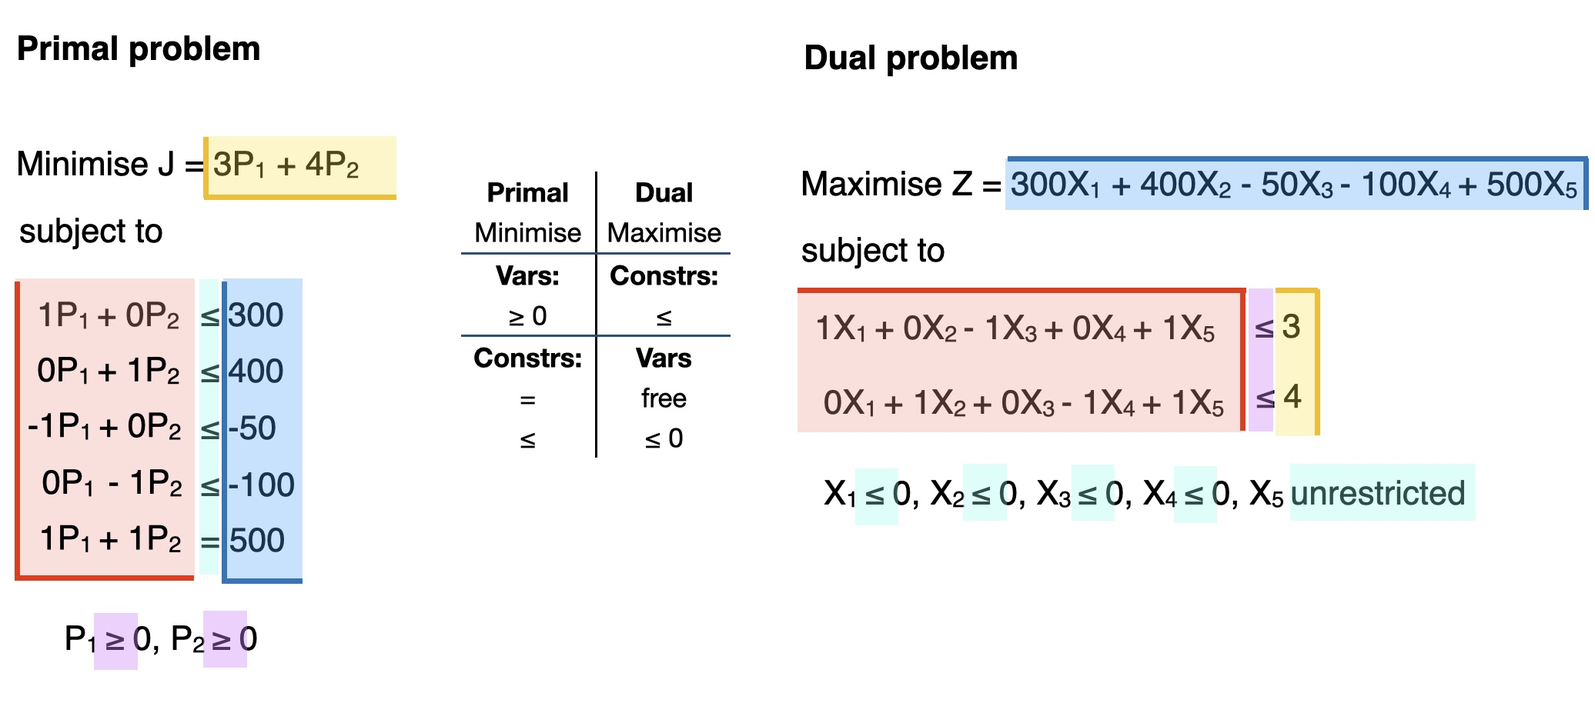
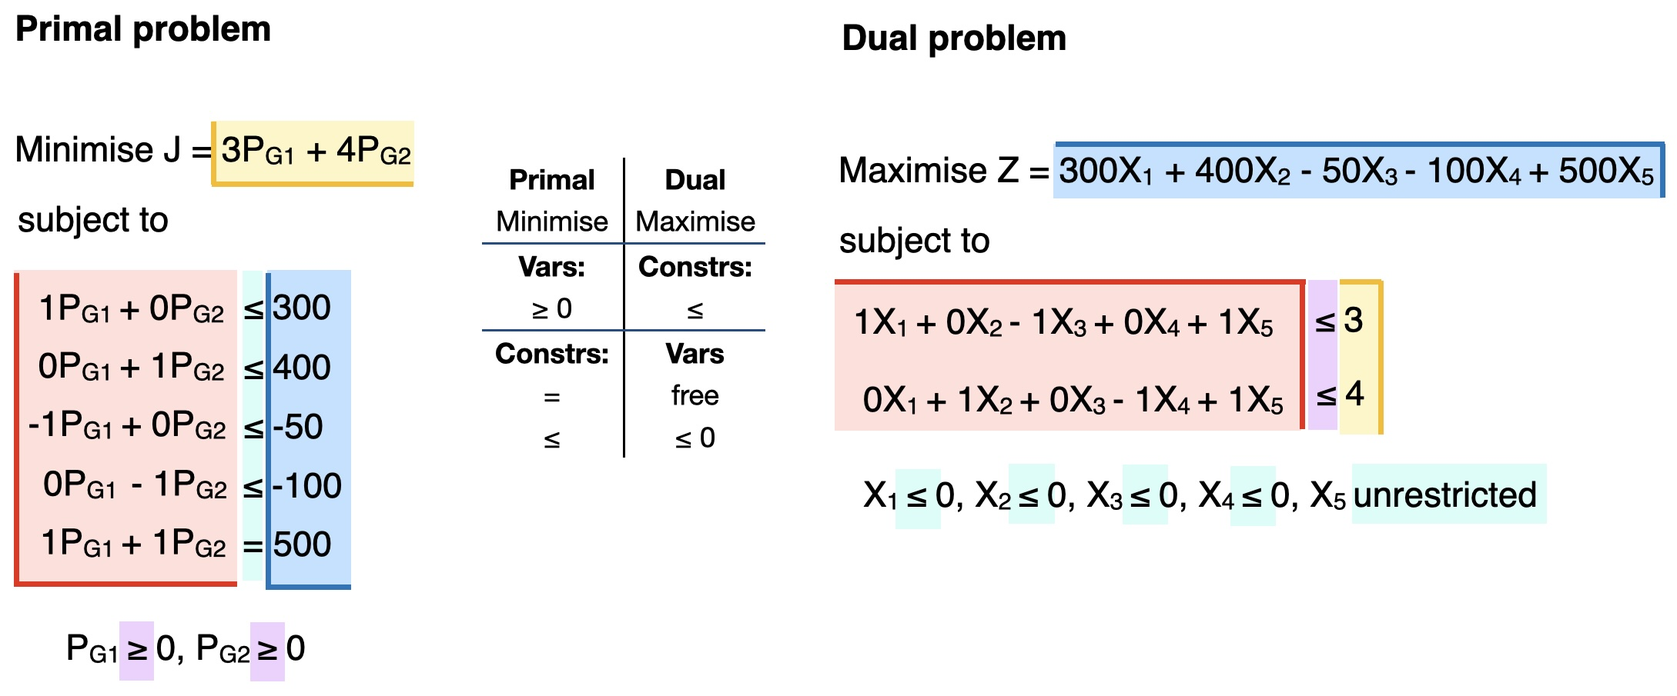
Change P_{G_i} to P_{Gi}; Minor fixes; Update figures

diff --git a/src/modelling_energy_systems/dispatch_lp.py b/src/modelling_energy_systems/dispatch_lp.py
@@ -38,8 +38,8 @@ def setup_fig_dispatchlp_decisionspace(min_coord, max_coord):
 
     ax.set_xlim(MIN_COORD, MAX_COORD)
     ax.set_ylim(MIN_COORD, MAX_COORD)
-    ax.set_xlabel("$\\mathbf{P_G_1}$: Power from coal power plant [MW]")
-    ax.set_ylabel("$\\mathbf{P_G_2}$: Power from gas power plant [MW]")
+    ax.set_xlabel("$\\mathbf{P_{G1}}$: Power from coal power plant [MW]")
+    ax.set_ylabel("$\\mathbf{P_{G2}}$: Power from gas power plant [MW]")
     ax.grid(True)
     return fig, ax
 

diff --git a/basics/duality-kkts.md b/basics/duality-kkts.md
@@ -62,13 +62,13 @@ Weak duality means that the solution to any primal minimisation problem is alway
 We will now revisit the economic dispatch problem from {numref}`content:lp:economic-dispatch` and formulate the corresponding dual problem. Recall our economic dispatch problem:
 
 \begin{align}
-    \text{Min.} \; & J = 3P_{G_1} + 4P_{G_2} \\
-    \text{s.t.} \; & 50 \leq P_{G_1} \leq 300 \\
-    & 100 \leq P_{G_2} \leq 400 \\
-    & P_{G_1} + P_{G_2} = 500 \\
+    \text{Min.} \; & J = 3P_{G1} + 4P_{G2} \\
+    \text{s.t.} \; & 50 \leq P_{G1} \leq 300 \\
+    & 100 \leq P_{G2} \leq 400 \\
+    & P_{G1} + P_{G2} = 500 \\
 \end{align}
 
-We also have the variable bounds: $P_{G_1} \geq 0$ and $P_{G_2} \geq 0$ (this comes from the physical nature of our system: power plants produce electricity; their power production has to be a positive value).
+We also have the variable bounds: $P_{G1} \geq 0$ and $P_{G2} \geq 0$ (this comes from the physical nature of our system: power plants produce electricity; their power production has to be a positive value).
 
 Now, to make our life easier, we will rewrite this problem into the standard form that we introduced in {numref}`content:lp:standard-form`. We separate out the upper and lower limits on generation which are technically separate constraints, and give all the constraints the same sign.
 
@@ -80,23 +80,23 @@ Modifying our economic dispatch example into a standard form.
 So our problem now looks like this:
 
 \begin{align}
-    \text{Min.} \; & J = 3P_{G_1} + 4P_{G_2} \\
-    \text{s.t.} \; & P_{G_1} \leq 300 \\
-    & P_{G_2} \leq 400 \\
-    & -P_{G_1} \leq -50 \\
-    & -P_{G_2} \leq -100 \\
-    & P_{G_1} + P_{G_2} = 500 \\
+    \text{Min.} \; & J = 3P_{G1} + 4P_{G2} \\
+    \text{s.t.} \; & P_{G1} \leq 300 \\
+    & P_{G2} \leq 400 \\
+    & -P_{G1} \leq -50 \\
+    & -P_{G2} \leq -100 \\
+    & P_{G1} + P_{G2} = 500 \\
 \end{align}
 
 It is up to us to pick the naming for the new variables in the dual problem. Often we write down the variable name we'll use in the dual problem next to the corresponding constraint in the primal problem, which in the above example would look like this:
 
 \begin{align}
-    \text{Min.} \; & J = 3P_{G_1} + 4P_{G_2} \\
-    \text{s.t.} \; & P_{G_1} \leq 300 \quad &(X_1) \\
-    & P_{G_2} \leq 400 \quad &(X_2) \\
-    & -P_{G_1} \leq -50 \quad &(X_3) \\
-    & -P_{G_2} \leq -100 \quad &(X_4) \\
-    & P_{G_1} + P_{G_2} = 500 \quad &(X_5) \\
+    \text{Min.} \; & J = 3P_{G1} + 4P_{G2} \\
+    \text{s.t.} \; & P_{G1} \leq 300 \quad &(X_1) \\
+    & P_{G2} \leq 400 \quad &(X_2) \\
+    & -P_{G1} \leq -50 \quad &(X_3) \\
+    & -P_{G2} \leq -100 \quad &(X_4) \\
+    & P_{G1} + P_{G2} = 500 \quad &(X_5) \\
 \end{align}
 
 Now, we can use the rules in {numref}`table:standard_duality_conversion`:
@@ -139,12 +139,12 @@ Our new variables are $X_1 \leq 0, X_2 \leq 0, X_3 \leq 0, X_4 \leq 0$, and $X_5
 :class: tip
 
 The left-hand side of the primal and dual constraints can be understood as a rotation of each other. In the context of the economic dispatch example:
-* $P_{G_1}$ in the first primal constraint leads to $X_1$ in the first dual constraint
-* $P_{G_2}$ in the second primal constraint leads to $X_2$ in the second dual constraint
-* $-P_{G_1}$ in the third primal constraint leads to $-X_3$ in the first dual constraint
-* $-P_{G_2}$ in the fourth primal constraint leads to $-X_4$ in the second dual constraint
-* $P_{G_1}$ in the fifth primal constraint leads to $X_5$ in the first dual constraint
-* $P_{G_2}$ in the fifth primal constraint leads to $X_5$ in the second dual constraint
+* $P_{G1}$ in the first primal constraint leads to $X_1$ in the first dual constraint
+* $P_{G2}$ in the second primal constraint leads to $X_2$ in the second dual constraint
+* $-P_{G1}$ in the third primal constraint leads to $-X_3$ in the first dual constraint
+* $-P_{G2}$ in the fourth primal constraint leads to $-X_4$ in the second dual constraint
+* $P_{G1}$ in the fifth primal constraint leads to $X_5$ in the first dual constraint
+* $P_{G2}$ in the fifth primal constraint leads to $X_5$ in the second dual constraint
 
 Notice that when there is a factor of $P_\mathbf{1}$ in a primal constraint, this leads to a term in the **first** dual constraint. When there is a factor of $P_\mathbf{2}$, it leads to a term in the **second** dual constraint. The **first** primal constraint leads to a factor of $X_\mathbf{1}$ in the dual constraint, the **second** primal constraint leads to a factor of $X_\mathbf{2}$ in the dual constraint, the **third** primal constraint leads to a factor of $X_\mathbf{3}$ in the dual constraint, and so on.
 :::
@@ -229,13 +229,13 @@ Let's go back to basic optimisation (high school mathematics). Whenever you had 
 
 A point that satisfies the necessary condition for optimality ($\frac{\partial f(x)}{\partial x} =  0$) is called a stationary point. For convex optimisation problems, we never use the sufficient condition because any stationary point will be a minimum.
 
-(content:duality-kkt:economic-dispatch)= 
+(content:duality-kkt:economic-dispatch)=
 
 ### Equality constrained optimisation
 
 In energy systems, a constrained optimisation is most common. Consider the example of economic dispatch from {numref}`content:lp:economic-dispatch`. We will again use an economic dispatch example, and build up the complexity of the problem throughout this chapter, to illustrate how we can use KKT conditions and duality to solve such problems and interpret their solutions.
 
-Consider two generators able to produce $P_{G_1}$ and $P_{G_2}$. Each generator has a quadratic cost function: $C_1 = a_1 + b_1 \cdot P_{G_1}^2$ and $C_2 = a_2 + b_2 \cdot P_{G_2}^2$. Note that the cost functions here are quadratic, _not_ linear. This is quite typical in power systems. $C_i$ denotes the total operating cost of powerplant $i$, while $a_i$ is a fixed cost and $b_i$ is the cost in €/MW.
+Consider two generators able to produce $P_{G1}$ and $P_{G2}$. Each generator has a quadratic cost function: $C_1 = a_1 + b_1 \cdot P_{G1}^2$ and $C_2 = a_2 + b_2 \cdot P_{G2}^2$. Note that the cost functions here are quadratic, _not_ linear. This is quite typical in power systems. $C_i$ denotes the total operating cost of powerplant $i$, while $a_i$ is a fixed cost and $b_i$ is the cost in €/MW.
 
 Unlike the linear dispatch problem in {numref}`content:lp:economic-dispatch`, we now have a **quadratic programming (QP)** problem. This is still a convex optimisation problem. Therefore, the techniques we use here also apply to linear programming problems.
 
@@ -247,29 +247,29 @@ Unlike the linear dispatch problem in {numref}`content:lp:economic-dispatch`, we
 We need to dispatch the generators to meet a demand $P_D$ at minimal cost. We will ignore the capacity constraints of the generators for now. Thus, we have the following optimisation problem:
 
 \begin{align}
-    & \text{min.} \quad a_1 + b_1 \cdot P_{G_1}^2+ a_2 + b_2 \cdot P_{G_2}^2 \\
-    & \text{s.t.} \quad P_{G_1} + P_{G_2} = P_D
+    & \text{min.} \quad a_1 + b_1 \cdot P_{G1}^2+ a_2 + b_2 \cdot P_{G2}^2 \\
+    & \text{s.t.} \quad P_{G1} + P_{G2} = P_D
 \end{align}
 
-If we do not consider the equality constraint $P_{G_1} + P_{G_2} = P_D$ then the optimal solution to this problem (what minimises operating cost of the system) is $P_{G_1}^* = 0$, $P_{G_2}^*=0$, i.e. not run the generators at all. You can easily confirm this with the necessary condition for optimality: take the derivative of the objective function w.r.t. $P_{G_1}$ and $P_{G_2}$, equate those expressions to zero, and solve for $P_{G_1}$ and $P_{G_2}$. This is the unconstrained optimisation previously discussed.
+If we do not consider the equality constraint $P_{G1} + P_{G2} = P_D$ then the optimal solution to this problem (what minimises operating cost of the system) is $P_{G1}^* = 0$, $P_{G2}^*=0$, i.e. not run the generators at all. You can easily confirm this with the necessary condition for optimality: take the derivative of the objective function w.r.t. $P_{G1}$ and $P_{G2}$, equate those expressions to zero, and solve for $P_{G1}$ and $P_{G2}$. This is the unconstrained optimisation previously discussed.
 
 To deal with the constraint in our optimisation problem, we introduce the Lagrangian. The Lagrangian integrates the constraint to the objective function.
 
 \begin{equation}
-    \mathcal{L} = (a_1 + b_1 \cdot P_{G_1}^2+ a_2 + b_2 \cdot P_{G_2}^2) + \lambda \cdot (P_D - P_{G_1} - P_{G_2})
+    \mathcal{L} = (a_1 + b_1 \cdot P_{G1}^2+ a_2 + b_2 \cdot P_{G2}^2) + \lambda \cdot (P_D - P_{G1} - P_{G2})
 \end{equation}
 
-The first part of the Lagrangian is the original objective function. Then we add the constraint multiplied by a Lagrange multiplier $\lambda$. We want to find an optimal value of $\lambda$ that coordinates the decision of $P_{G_1}$ and $P_{G_2}$ to ensure that the constraint $P_D = P_{G_1}^* + P_{G_2}^*$ is met at minimum cost.
+The first part of the Lagrangian is the original objective function. Then we add the constraint multiplied by a Lagrange multiplier $\lambda$. We want to find an optimal value of $\lambda$ that coordinates the decision of $P_{G1}$ and $P_{G2}$ to ensure that the constraint $P_D = P_{G1}^* + P_{G2}^*$ is met at minimum cost.
 
-To do this, we draw on our knowledge of unconstrained optimisation, since now we have a single function, the Lagrangian, to minimise. Thus, we take the first derivative of the Lagrangian w.r.t. $P_{G_1}$ and $P_{G_2}$ and $\lambda$:
+To do this, we draw on our knowledge of unconstrained optimisation, since now we have a single function, the Lagrangian, to minimise. Thus, we take the first derivative of the Lagrangian w.r.t. $P_{G1}$ and $P_{G2}$ and $\lambda$:
 
 \begin{align}
-    & \frac{\partial \mathcal{L}}{\partial P_{G_1}} = 2 \cdot b_1 \cdot P_{G_1} - \lambda = 0  \\
-    & \frac{\partial \mathcal{L}}{\partial P_{G_2}} = 2 \cdot b_2 \cdot P_{G_2} - \lambda = 0  \\
-    & \frac{\partial \mathcal{L}}{\partial \lambda} =P_D - P_{G_1} - P_{G_2} = 0
+    & \frac{\partial \mathcal{L}}{\partial P_{G1}} = 2 \cdot b_1 \cdot P_{G1} - \lambda = 0  \\
+    & \frac{\partial \mathcal{L}}{\partial P_{G2}} = 2 \cdot b_2 \cdot P_{G2} - \lambda = 0  \\
+    & \frac{\partial \mathcal{L}}{\partial \lambda} =P_D - P_{G1} - P_{G2} = 0
 \end{align}
 
-Notice that now we have three equations and three unknowns. So, we can solve for $P_{G_1}$, $P_{G_2}$, and $\lambda$, which gives the optimal solution to the original optimisation problem. Note that the last equation is identical to our original constraint. A solution to the system of equations above will hence be as such that $g_1$ and $g_2$ jointly meet the load $L$.
+Notice that now we have three equations and three unknowns. So, we can solve for $P_{G1}$, $P_{G2}$, and $\lambda$, which gives the optimal solution to the original optimisation problem. Note that the last equation is identical to our original constraint. A solution to the system of equations above will hence be as such that $g_1$ and $g_2$ jointly meet the load $L$.
 
 Now we will generalise the Lagrangian to any equality constrained optimisation problem. Consider the following minimisation problem with equality constraints $h_i(x)$:
 \begin{align}
@@ -306,23 +306,23 @@ The equality constrained optmisation problem also has a graphical interpretation
 Graphical representation of the equality constrained economic dispatch problem
 ```
 
-$P_{G_1}$ and $P_{G_2}$ are on the axes. The red contour lines are constant values of the objective function (total operating cost). The total operating cost increases as $P_{G_1}$ and $P_{G_2}$ increase. The blue line is the equality constraint. The green dot is the optimal solution. At this point, the gradient of the objective function $\nabla f(x)$ (red arrow) is (1) perpendicular to the constraint and (2) parallel to the gradient of the constraint $\nabla h(x)$ (blue arrow). This can be expressed as:
+$P_{G1}$ and $P_{G2}$ are on the axes. The red contour lines are constant values of the objective function (total operating cost). The total operating cost increases as $P_{G1}$ and $P_{G2}$ increase. The blue line is the equality constraint. The green dot is the optimal solution. At this point, the gradient of the objective function $\nabla f(x)$ (red arrow) is (1) perpendicular to the constraint and (2) parallel to the gradient of the constraint $\nabla h(x)$ (blue arrow). This can be expressed as:
 \begin{equation}
     \nabla f(x) + \lambda \cdot \nabla h(x) = 0
 \end{equation}
 
 ### General optimisation
 
-In energy systems, we have both equality and inequality constraints. For example, in the economic dispatch example of {numref}`content:lp:economic-dispatch`, the generators have maximum generation capacity constraints. These maximum constraints are notated as $P_{G_1}^{max}$ and $P_{G_2}^{max}$ and cannot run at negative output (lower bound of zero). The optimisation problem becomes:
+In energy systems, we have both equality and inequality constraints. For example, in the economic dispatch example of {numref}`content:lp:economic-dispatch`, the generators have maximum generation capacity constraints. These maximum constraints are notated as $P_{G1}^{max}$ and $P_{G2}^{max}$ and cannot run at negative output (lower bound of zero). The optimisation problem becomes:
 
 \begin{align}
-    \text{min.} \; & a_1 + b_1 \cdot P_{G_1}^2+ a_2 + b_2 \cdot P_{G_2}^2 \\
-    \text{s.t.} \; & P_{G_1} + P_{G_2} = P_D  \\
-    & 0 \leq P_{G_1} \leq P_{G_1}^{max}  \\
-    & 0 \leq P_{G_2} \leq P_{G_2}^{max}
+    \text{min.} \; & a_1 + b_1 \cdot P_{G1}^2+ a_2 + b_2 \cdot P_{G2}^2 \\
+    \text{s.t.} \; & P_{G1} + P_{G2} = P_D  \\
+    & 0 \leq P_{G1} \leq P_{G1}^{max}  \\
+    & 0 \leq P_{G2} \leq P_{G2}^{max}
 \end{align}
 
-To solve the problem with equality and inequality constraints, we extend our graphical interpretation. The grey area in {numref}`fig:KKT_eqconst_ineqconst_graphical` is the feasible region because it represents the feasible range of output of $P_{G_1}$ and $P_{G_2}$. The set of feasible solutions---the values of $P_{G_1}$ and $P_{G_2}$ that satisfy both the equality and inequality constraints---lie on the blue line within the grey area. This is exactly what we already did in {numref}`content:lp:economic-dispatch`, just with different notation for our generation and demand constraints - and as will become clear in {numref}`fig:KKT_eqconst_ineqconst_graphical`, a key difference in where the optimal solution lies, since we are dealing with a quadratic rather than a linear problem.
+To solve the problem with equality and inequality constraints, we extend our graphical interpretation. The grey area in {numref}`fig:KKT_eqconst_ineqconst_graphical` is the feasible region because it represents the feasible range of output of $P_{G1}$ and $P_{G2}$. The set of feasible solutions---the values of $P_{G1}$ and $P_{G2}$ that satisfy both the equality and inequality constraints---lie on the blue line within the grey area. This is exactly what we already did in {numref}`content:lp:economic-dispatch`, just with different notation for our generation and demand constraints - and as will become clear in {numref}`fig:KKT_eqconst_ineqconst_graphical`, a key difference in where the optimal solution lies, since we are dealing with a quadratic rather than a linear problem.
 
 ```{figure} ../images/KKT_eqconst_ineqconst_graphical.png
 :name: fig:KKT_eqconst_ineqconst_graphical
@@ -331,7 +331,7 @@ To solve the problem with equality and inequality constraints, we extend our gra
 Graphical representation of the equality and inequality constrained economic dispatch problem
 ```
 
-The optimal solution needs to be part of the feasible solution set. In this case, we see that the optimal solution (green dot) is indeed in the feasible area. Thus the inequality constraints $0 \leq P_{G_1} \leq P_{G_1}^{max}$ and $0 \leq P_{G_2} \leq P_{G_2}^{max}$ actually do not play a role in this particular example.
+The optimal solution needs to be part of the feasible solution set. In this case, we see that the optimal solution (green dot) is indeed in the feasible area. Thus the inequality constraints $0 \leq P_{G1} \leq P_{G1}^{max}$ and $0 \leq P_{G2} \leq P_{G2}^{max}$ actually do not play a role in this particular example.
 
 :::{admonition} From linear to quadratic problems
 :class: tip
@@ -340,7 +340,7 @@ Recall that in {numref}`content:lp:economic-dispatch`, we were able to say that 
 
 :::
 
-However, in the general case the inequality constraints can influence the optimisation problem. Such a case is when the generators produce at their capacity limits. Then we want to define which inequality constraints are active. If we can identify the active constraints, we can replace them with equality constraints (e.g., $P_{G_1} \leq P_{G_1}^{max}$ becomes $P_{G_1} = P_{G_1}^{max}$). Hence, we can ignore all inactive constraints, as they don't influence the solution. Then we are left with an equality constrained optimisation problem which we know how to solve.
+However, in the general case the inequality constraints can influence the optimisation problem. Such a case is when the generators produce at their capacity limits. Then we want to define which inequality constraints are active. If we can identify the active constraints, we can replace them with equality constraints (e.g., $P_{G1} \leq P_{G1}^{max}$ becomes $P_{G1} = P_{G1}^{max}$). Hence, we can ignore all inactive constraints, as they don't influence the solution. Then we are left with an equality constrained optimisation problem which we know how to solve.
 
 In a general optimisation problem with both equality and inequality constraints, we do not know in advance which constraints will be active. In that case, the Karush-Kuhn-Tucker (KKT) are useful in identifying the optimal solution. Consider the general optimisation problem written in standard form:
 
@@ -415,40 +415,40 @@ Note that sometimes KKT conditions are written in condensed form:
 
 Let's revisit the economic dispatch example with the quadratic cost functions, as defined in {numref}`content:duality-kkt:economic-dispatch` and apply KKT conditions. In the standard form we want to use here, the constraints are written separately with a zero on the right-hand sign and "=" or "$\leq$" signs:
 \begin{align}
-    \text{min.} \; & a_1 + b_1 \cdot P_{G_1}^2+ a_2 + b_2 \cdot P_{G_2}^2 &  \\
-    \text{s.t.} \; & P_{G_1} + P_{G_2} - P_D = 0 \quad &(\lambda) \\
-    &  - P_{G_1} \leq 0 \quad &(\mu_1) \\
-    &  P_{G_1} - P_{G_1}^{max} \leq 0 \quad &(\mu_2) \\
-    &  - P_{G_2} \leq 0 \quad &(\mu_3)  \\
-    &  P_{G_2} - P_{G_2}^{max} \leq 0 \quad &(\mu_4)
+    \text{min.} \; & a_1 + b_1 \cdot P_{G1}^2+ a_2 + b_2 \cdot P_{G2}^2 &  \\
+    \text{s.t.} \; & P_{G1} + P_{G2} - P_D = 0 \quad &(\lambda) \\
+    &  - P_{G1} \leq 0 \quad &(\mu_1) \\
+    &  P_{G1} - P_{G1}^{max} \leq 0 \quad &(\mu_2) \\
+    &  - P_{G2} \leq 0 \quad &(\mu_3)  \\
+    &  P_{G2} - P_{G2}^{max} \leq 0 \quad &(\mu_4)
 \end{align}
 
 This makes it easy to write the Lagrangian, following Equation {eq}`eqn:kkts-Lagrangian`:
 \begin{align}
-    \mathcal{L} = & a_1 + b_1 \cdot P_{G_1}^2+ a_2 + P_{G_2} \cdot P_{G_2}^2 + \lambda \cdot ( P_{G_1} + P_{G_2} - P_D ) \\
-    & + \mu_1 \cdot ( - P_{G_1}) + \mu_2 \cdot ( P_{G_1} - P_{G_1}^{max})  \\
-    & + \mu_3 \cdot ( - P_{G_2} ) + \mu_4 \cdot ( P_{G_2} - P_{G_2}^{max})
+    \mathcal{L} = & a_1 + b_1 \cdot P_{G1}^2+ a_2 + P_{G2} \cdot P_{G2}^2 + \lambda \cdot ( P_{G1} + P_{G2} - P_D ) \\
+    & + \mu_1 \cdot ( - P_{G1}) + \mu_2 \cdot ( P_{G1} - P_{G1}^{max})  \\
+    & + \mu_3 \cdot ( - P_{G2} ) + \mu_4 \cdot ( P_{G2} - P_{G2}^{max})
 \end{align}
 
 Then we derive the KKT conditions:
 \begin{align}
-    & \frac{\partial \mathcal{L}}{\partial P_{G_1}} = 2 \cdot b_1 \cdot P_{G_1} + \lambda - \mu_1 + \mu_2 = 0 \quad & (\text{Optimality conditions}) \\
-    & \frac{\partial \mathcal{L}}{\partial P_{G_2}} = 2 \cdot b_2 \cdot P_{G_2} + \lambda - \mu_3 + \mu_4 = 0 \quad & (\text{Optimality conditions}) \\
-    & \frac{\partial \mathcal{L}}{\partial \lambda} = P_{G_1} + P_{G_2} - P_D = 0 \quad &  (\text{Primal feasibility (equality constraint)}) \\
-    &  - P_{G_1} \leq 0 \quad & (\text{Primal feasibility (inequality constraint}) \\
-    &  P_{G_1} - P_{G_1}^{max} \leq 0  \quad & (\text{Primal feasibility (inequality constraint}) \\
-    &  - P_{G_2} \leq 0  \quad & (\text{Primal feasibility (inequality constraint}) \\
-    &  P_{G_2} - P_{G_2}^{max} \quad & (\text{Primal feasibility (inequality constraint}) \\
-    & \mu_1 \cdot ( - P_{G_1}) = 0  \quad & (\text{Complementary slackness conditions}) \\
-    & \mu_2 \cdot ( P_{G_1} - P_{G_1}^{max}) = 0 \quad & (\text{Complementary slackness conditions}) \\
-    & \mu_3 \cdot ( - P_{G_2} )  = 0 \quad & (\text{Complementary slackness conditions}) \\
-    & \mu_4 \cdot ( P_{G_2} - P_{G_2}^{max}) = 0 \quad & (\text{Complementary slackness conditions}) \\
+    & \frac{\partial \mathcal{L}}{\partial P_{G1}} = 2 \cdot b_1 \cdot P_{G1} + \lambda - \mu_1 + \mu_2 = 0 \quad & (\text{Optimality conditions}) \\
+    & \frac{\partial \mathcal{L}}{\partial P_{G2}} = 2 \cdot b_2 \cdot P_{G2} + \lambda - \mu_3 + \mu_4 = 0 \quad & (\text{Optimality conditions}) \\
+    & \frac{\partial \mathcal{L}}{\partial \lambda} = P_{G1} + P_{G2} - P_D = 0 \quad &  (\text{Primal feasibility (equality constraint)}) \\
+    &  - P_{G1} \leq 0 \quad & (\text{Primal feasibility (inequality constraint}) \\
+    &  P_{G1} - P_{G1}^{max} \leq 0  \quad & (\text{Primal feasibility (inequality constraint}) \\
+    &  - P_{G2} \leq 0  \quad & (\text{Primal feasibility (inequality constraint}) \\
+    &  P_{G2} - P_{G2}^{max} \quad & (\text{Primal feasibility (inequality constraint}) \\
+    & \mu_1 \cdot ( - P_{G1}) = 0  \quad & (\text{Complementary slackness conditions}) \\
+    & \mu_2 \cdot ( P_{G1} - P_{G1}^{max}) = 0 \quad & (\text{Complementary slackness conditions}) \\
+    & \mu_3 \cdot ( - P_{G2} )  = 0 \quad & (\text{Complementary slackness conditions}) \\
+    & \mu_4 \cdot ( P_{G2} - P_{G2}^{max}) = 0 \quad & (\text{Complementary slackness conditions}) \\
     & \mu_1, \mu_2, \mu_3, \mu_4 \geq 0 \quad & (\text{Dual feasibility})
 \end{align}
 
-Clearly, this is a large set of equations. This problem is not trivial to solve because the complementary slackness constraints are non-linear. For simple cases addressed in this course, we can solve the problem by using trial-and-error: "What if a certain constraint $g_j(x)$ is binding? Does that lead to a feasible solution? Is the solution optimal?" In this example, there are four inequality constraints so in theory there are 16 ($=2^4$) possible combinations. However, some combinations are not possible, for example if $P_{G_1} = 0$, then $P_{G_1} \neq P_{G_1}^{max}$. By trying different combinations of constraints, we come up with candidate solutions, then assess whether they are optimal or not.
+Clearly, this is a large set of equations. This problem is not trivial to solve because the complementary slackness constraints are non-linear. For simple cases addressed in this course, we can solve the problem by using trial-and-error: "What if a certain constraint $g_j(x)$ is binding? Does that lead to a feasible solution? Is the solution optimal?" In this example, there are four inequality constraints so in theory there are 16 ($=2^4$) possible combinations. However, some combinations are not possible, for example if $P_{G1} = 0$, then $P_{G1} \neq P_{G1}^{max}$. By trying different combinations of constraints, we come up with candidate solutions, then assess whether they are optimal or not.
 
-Let's look at the problem graphically (see {numref}`fig:KKT_G2const_graphical`). We assume that the feasible range of values for $P_{G_2}$ is reduced to the capacity constraints. Therefore, the original optimal solution (green dot) is no longer in the feasible region. By looking at the graph and reasoning, we can suppose that the upper capacity limit of $P_{G_2}$ will be binding. So, we will test the solution in which $P_{G_1}$ is producing within its operating range $0 \leq P_{G_1} \leq P_{G_1}^{max}$ (the inequality constraints are non-binding) and $P_{G_2}$ is operating at maximum capacity $P_{G_2} = P_{G_2}^{max}$. The solution still needs to lie on the blue line to satisfy the equality constraint.
+Let's look at the problem graphically (see {numref}`fig:KKT_G2const_graphical`). We assume that the feasible range of values for $P_{G2}$ is reduced to the capacity constraints. Therefore, the original optimal solution (green dot) is no longer in the feasible region. By looking at the graph and reasoning, we can suppose that the upper capacity limit of $P_{G2}$ will be binding. So, we will test the solution in which $P_{G1}$ is producing within its operating range $0 \leq P_{G1} \leq P_{G1}^{max}$ (the inequality constraints are non-binding) and $P_{G2}$ is operating at maximum capacity $P_{G2} = P_{G2}^{max}$. The solution still needs to lie on the blue line to satisfy the equality constraint.
 
 ```{figure} ../images/KKT_g2const_graphical.png
 :name: fig:KKT_g2const_graphical
@@ -459,17 +459,17 @@ Graphical representation of the economic dispatch problem with reduced feasible 
 
 Given this test solution, we know that $\mu_1$, $\mu_2$, $\mu_3$ $= 0$ and $\mu_4 \neq 0$. This simplifies the set of KKT conditions to:
 \begin{align}
-    & \frac{\partial \mathcal{L}}{\partial P1} = 2 \cdot b_1 \cdot P_{G_1} + \lambda  = 0  \\
-    & \frac{\partial \mathcal{L}}{\partial P_{G_2}} = 2 \cdot b_2 \cdot P_{G_2} + \lambda + \mu_4 = 0  \\
-    & \frac{\partial \mathcal{L}}{\partial \lambda} = P_{G_1} + P_{G_2} - P_D = 0  \\
-    &  - P_{G_1} < 0  \\
-    &  P_{G_1} - P_{G_1}^{max} < 0   \\
-    & P_{G_2} = P_{G_2}^{max} \\
+    & \frac{\partial \mathcal{L}}{\partial P1} = 2 \cdot b_1 \cdot P_{G1} + \lambda  = 0  \\
+    & \frac{\partial \mathcal{L}}{\partial P_{G2}} = 2 \cdot b_2 \cdot P_{G2} + \lambda + \mu_4 = 0  \\
+    & \frac{\partial \mathcal{L}}{\partial \lambda} = P_{G1} + P_{G2} - P_D = 0  \\
+    &  - P_{G1} < 0  \\
+    &  P_{G1} - P_{G1}^{max} < 0   \\
+    & P_{G2} = P_{G2}^{max} \\
     & \mu_1, \mu_2, \mu_3 = 0  \\
     & \mu_4 \geq 0
 \end{align}
 
-The only unknown variables are $P_{G_1}$, $\lambda$, and $\mu_4$, which we can solve for. If we can find a solution, it is optimal. We can also ask ourselves "Does the solution make sense? Is there an alternative set of binding inequality constraints that would yield a better solution?" to check that indeed we have found the optimal solution. The new solution---orange dot in {numref}`fig:KKT_g2const_graphical`---satisfies the constraints but comes at a higher total operating cost than before.
+The only unknown variables are $P_{G1}$, $\lambda$, and $\mu_4$, which we can solve for. If we can find a solution, it is optimal. We can also ask ourselves "Does the solution make sense? Is there an alternative set of binding inequality constraints that would yield a better solution?" to check that indeed we have found the optimal solution. The new solution---orange dot in {numref}`fig:KKT_g2const_graphical`---satisfies the constraints but comes at a higher total operating cost than before.
 
 Ok, you might ask: what is this all good for? KKT conditions can help us find the optimal solutions to nonlinear problems (we don't need them for linear problems), and we will apply them when looking at mixed complementarity problems in {numref}`content:mixed-complementarity`. But they also give us a different view on duality, and this is what we want to turn our attention to last.
 

diff --git a/basics/dispatch-lp.md b/basics/dispatch-lp.md
@@ -53,9 +53,9 @@ Linear optimisation is often called "linear programming" and abbreviated to LP. 
 
 ### {{ labeled_circle_params }}
 
-We know the demand for the hour we are looking at, $P_{demand}$ = 500 MW.
+We know the demand for the hour we are looking at, $P_D$ = 500 MW.
 
-We also know some things about our power plants (units). We know what their minimum and maximum power generation are. We will call that $P_{min,i}$ and $P_{max,i}$, for each unit $i$.
+We also know some things about our power plants (units). We know what their minimum and maximum power generation are. We will call that $P_{G,min,i}$ and $P_{G,max,i}$, for each unit $i$.
 
 We also know how much it costs us to run our units for an hour. For now, we will assume that the cost is simply a function of the power output over the hour that we are considering. Thus, our per-unit cost is $C_i$, representing the unit $i$'s generating cost in €/MW.
 
@@ -68,15 +68,15 @@ The specifics of our two units are:
 
 We want to decide how to operate our units, so our variables - the unknown quantities that we want to optimise - are the power generated in each unit $i$:
 
-$P_{G_i}$
+$P_{Gi}$
 
 ### {{ labeled_circle_obj }}
 
-Our objective is to minimise our cost of generating power $J$. Given the cost per unit, $C_i$, and the power generated in each unit, $P_{G_i}$, we can formulate the total cost as follows:
+Our objective is to minimise our cost of generating power $J$. Given the cost per unit, $C_i$, and the power generated in each unit, $P_{Gi}$, we can formulate the total cost as follows:
 
 \begin{equation}
 \label{eq:ed_cost}
-J = \sum_{i=1}^{n} C_i * P_{G_i}
+J = \sum_{i=1}^{n} C_i * P_{Gi}
 \end{equation}
 
 ### {{ labeled_circle_constr }}
@@ -87,14 +87,14 @@ First, our units must operate within their physical limits - their generated pow
 
 \begin{equation}
 \label{eq:ed_min}
-P_{G_i}^{min} \leq P_{G_i} \leq P_{G_i}^{max}
+P_{Gi}^{min} \leq P_{Gi} \leq P_{Gi}^{max}
 \end{equation}
 
 Second, the amount of electricity generated must exactly match the demand for electricity:
 
 \begin{equation}
 \label{eq:ed_balance}
-\sum_{i=1}^{n} P_{G_i} = P_{D}
+\sum_{i=1}^{n} P_{Gi} = P_{D}
 \end{equation}
 
 Note this implies that we ignore many practical matters, for example:
@@ -106,15 +106,15 @@ Note this implies that we ignore many practical matters, for example:
 
 In our example, with two power plants, we end up with the following linear optimisation or linear programming (LP) problem:
 
-* Variables: $P_{G_1}$ and $P_{G_2}$
-* Objective (to be minimised): $J = C_1 * P_{G_1} + C_2 * P_{G_2} = 3P_{G_1} + 4P_{G_2}$
-* Demand balance constraint: $P_{G_1} + P_{G_2} = P_D = 500$
-* Operational constraint for unit 1: $50 \leq P_{G_1} \leq 300$
-* Operational constraint for unit 2: $100 \leq P_{G_2} \leq 400$
+* Variables: $P_{G1}$ and $P_{G2}$
+* Objective (to be minimised): $J = C_1 * P_{G1} + C_2 * P_{G2} = 3P_{G1} + 4P_{G2}$
+* Demand balance constraint: $P_{G1} + P_{G2} = P_D = 500$
+* Operational constraint for unit 1: $50 \leq P_{G1} \leq 300$
+* Operational constraint for unit 2: $100 \leq P_{G2} \leq 400$
 
 ## Graphical solution
 
-Since this is a two-dimensional problem, with our two decision variables $P_{G_1}$ and $P_{G_2}$, we can visualise the solution graphically. In principle, we are looking for a value for $P_{G_1}$ and $P_{G_2}$, so a point in the two-dimensional decision space seen in {numref}`fig-dispatchlp-decisionspace`.
+Since this is a two-dimensional problem, with our two decision variables $P_{G1}$ and $P_{G2}$, we can visualise the solution graphically. In principle, we are looking for a value for $P_{G1}$ and $P_{G2}$, so a point in the two-dimensional decision space seen in {numref}`fig-dispatchlp-decisionspace`.
 
 To find the best solution, we first need to identify the **feasible region**. This region includes all feasible points, that is, points that meet the constraints of the problem.
 
@@ -173,13 +173,13 @@ Similarly, we can use contour lines to visualise the "third dimension" represent
 To draw contour lines, we set the objective function to a given value (since we already know that 1700 is the optimum, let's start with that). We can transform the objective function equation into a two-dimensional function. Thus,
 
 \begin{equation}
-J = 1700 = 3 P_{G_1} + 4 P_{G_2}
+J = 1700 = 3 P_{G1} + 4 P_{G2}
 \end{equation}
 
 becomes
 
 \begin{equation}
-P_{G_2} = 425 - 0.75 P_{G_1}
+P_{G2} = 425 - 0.75 P_{G1}
 \end{equation}
 
 To draw further lines we increase and decrease the value by a constant value and repeat the process. In {numref}`fig-dispatchlp-contourlines` we can see what this looks like. In the direction towards the upper right of the plot, the objective function value decreases, in the direction of the lower left of the plot, it decreases. Looking at teh contour lines, we can imagine that we are walking "downhill" in a direction perpendicular to the parallel contour lines (since we are minimising) inside the feasible space, until we hit the edge of the feasible space and cannot go downhill any further - this is the optimum.
@@ -194,7 +194,7 @@ Contour lines of the economic dispatch problem.
 What if we change our objective function slightly so that both coefficients are $4$? The objective function becomes:
 
 \begin{equation}
-J = 4 P_{G_1} + 4 P_{G_2}
+J = 4 P_{G1} + 4 P_{G2}
 \end{equation}
 
 Drawing the contour lines of this revised objective function, we can see that they are parallel to the feasible space ({numref}`fig-dispatchlp-contourlines-parallel`). If we go "downhill" along these lines, we cannot end up in a single point - any point along the contour line overlapping with the feasible space is an equally good solution. This illustrates that depending on how the constraints and objective function are set up, a problem may have not just one but an infinite number of optimal solutions.
@@ -210,7 +210,7 @@ Contour lines of the economic dispatch problem with revised objective function.
 
 Finally, let's look at the **active constraints**. These are the constraints that "force" the objective function to the value it takes in the optimum. In other words, they are the binding constraints. In our example, two constraints are active / binding (see {numref}`fig-dispatchlp-activeconstraints`):
 
-* the maximum output constraint for $P_{G_1}$: $P_{G_1} <= 300$
+* the maximum output constraint for $P_{G1}$: $P_{G1} <= 300$
 * the demand constraint (note that by definition, equality constraints are *always* active)
 
 ```{figure} ../images-built/fig_dispatchlp_activeconstraints.jpg
@@ -228,7 +228,7 @@ So far we looked at a simple case with only two dimensions, which allows us to r
 
 \begin{equation}
 \label{eq:ed_balance_modified}
-P_{G_1} + P_{G_2} \leq 500
+P_{G1} + P_{G2} \leq 500
 \end{equation}
 
 This does not necessarily make a lot of real-world sense - in our problem formulation we are minimising cost and so we would expect that electricity generation is as small as possible if there is no equality constraint that forces the model to deliver a certain demand. And indeed the new optimum is $J = 550$ ({numref}`fig-dispatchlp-modifieddemand`).
